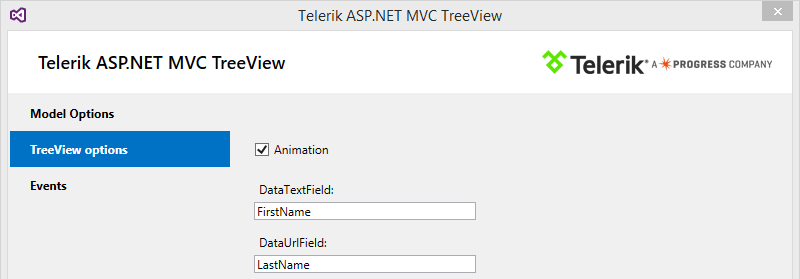
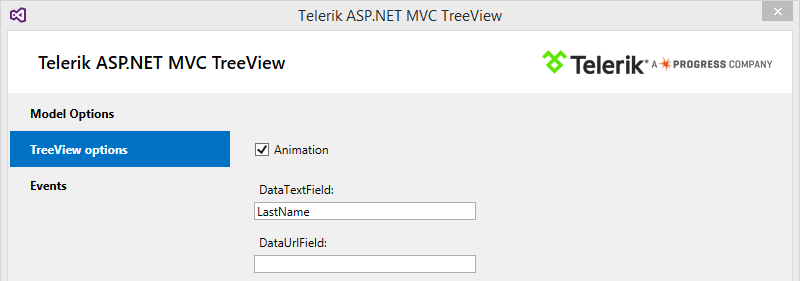
Replaced an image and fixed links

diff --git a/docs/aspnet-mvc/helpers/treeview/scaffolding.md b/docs/aspnet-mvc/helpers/treeview/scaffolding.md
@@ -28,7 +28,7 @@ Below are listed the steps for you to follow when scaffolding the Kendo UI TreeV
 
 **Step 2** Include an Entity Framework Data Model. You can follow the steps described [in this article]({% slug ajaxbinding_treeviewhelper_aspnetmvc %}) to do that.
 
->Note If you are using the [Northwind dummy datasource]({http://northwinddatabase.codeplex.com/}) as demonstrated in the example in this article, you might need to upgrade it to match a newer version of your Visual Studio LocalDb definition. If this is the case, you can easily do that using the [Server Explorer]({https://msdn.microsoft.com/en-us/library/hh873188.aspx}). Visual Studio will ask you to confirm whether you want to upgrade the database and when you accept, you are ready to go.
+>Note If you are using the [Northwind dummy datasource](http://northwinddatabase.codeplex.com/) as demonstrated in the example in this article, you might need to upgrade it to match a newer version of your Visual Studio LocalDb definition. If this is the case, you can easily do that using the [Server Explorer](https://msdn.microsoft.com/en-us/library/hh873188.aspx). Visual Studio will ask you to confirm whether you want to upgrade the database and when you accept, you are ready to go.
 
 >Important You will need to Rebuild your project after adding the Entity data model.
 
@@ -78,7 +78,7 @@ Below are listed the steps for you to follow when scaffolding the Kendo UI TreeV
 Other articles on the Kendo UI TreeView for ASP.NET MVC:
 
 * [Overview of the TreeView HtmlHelper]({% slug overview_treeviewhelper_aspnetmvc %})
-* [Live Samples]({http://demos.telerik.com/aspnet-mvc/treeview/index})
+* [Live Samples](http://demos.telerik.com/aspnet-mvc/treeview/index)
 
 
 Articles on Telerik UI for ASP.NET MVC:
